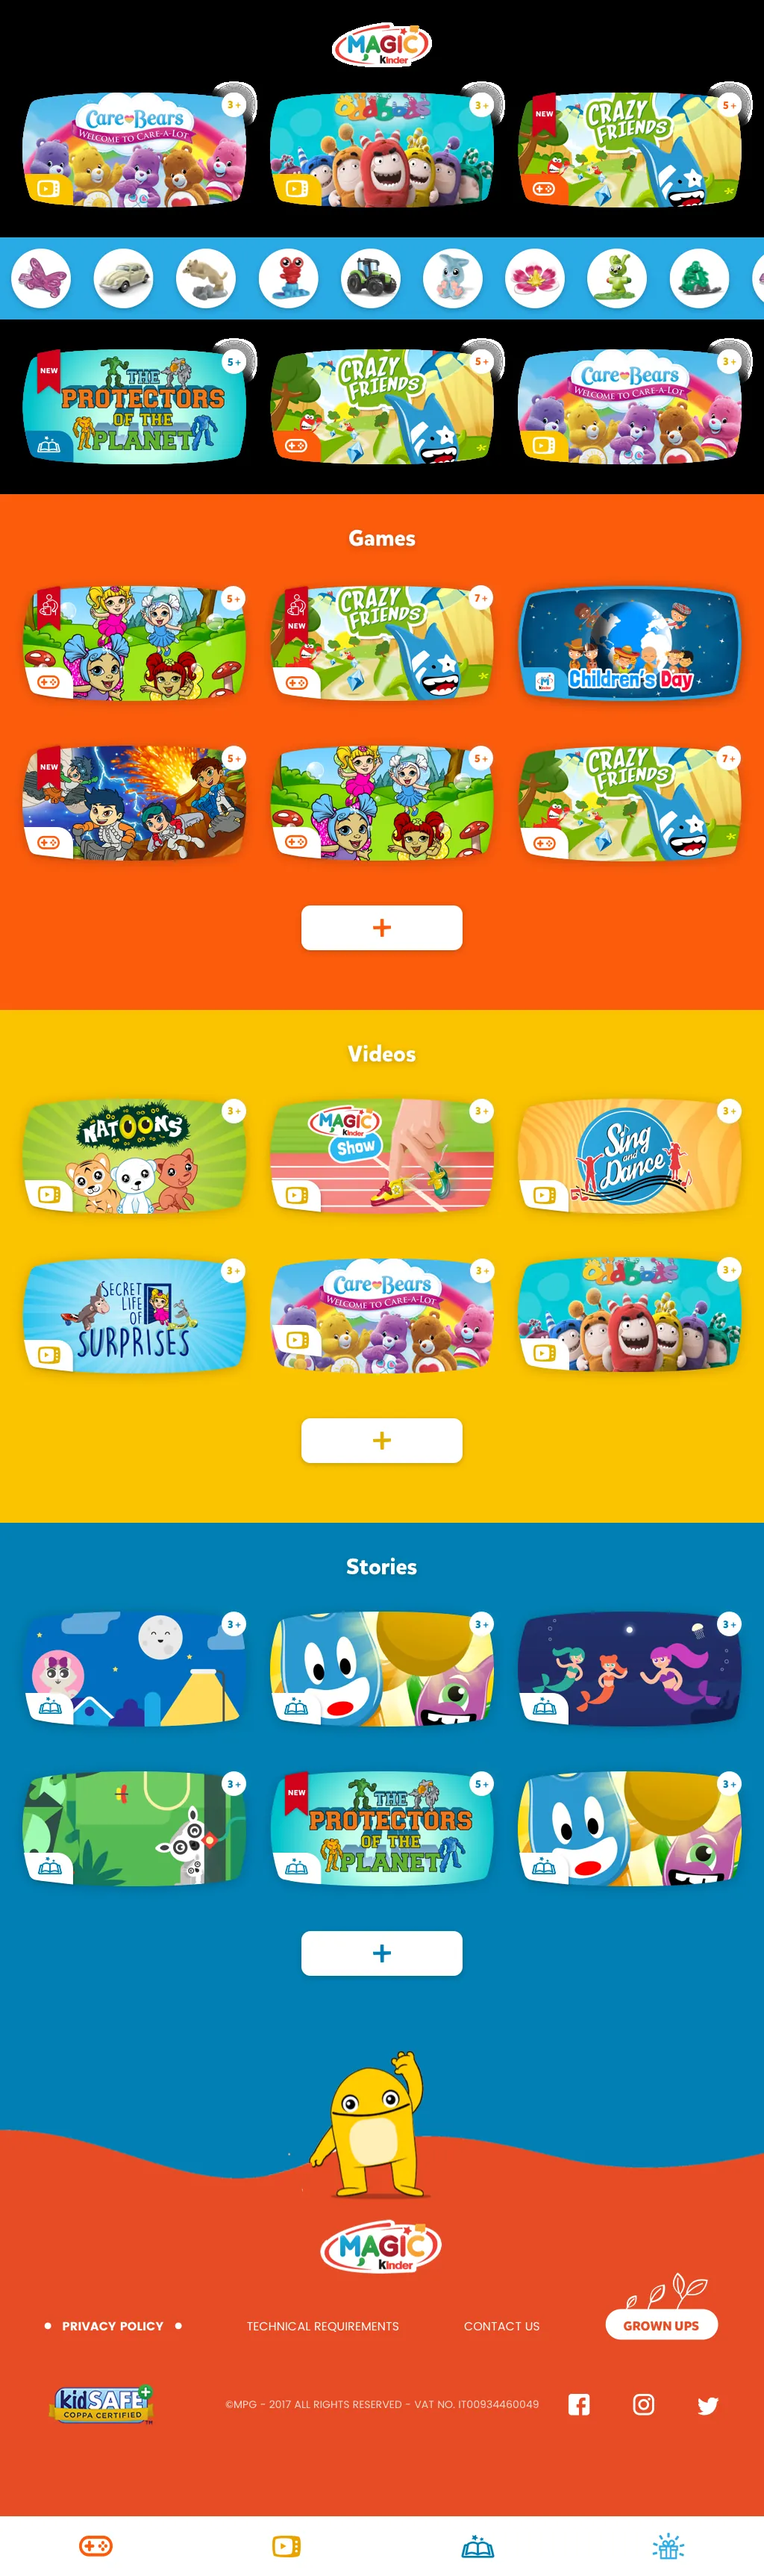
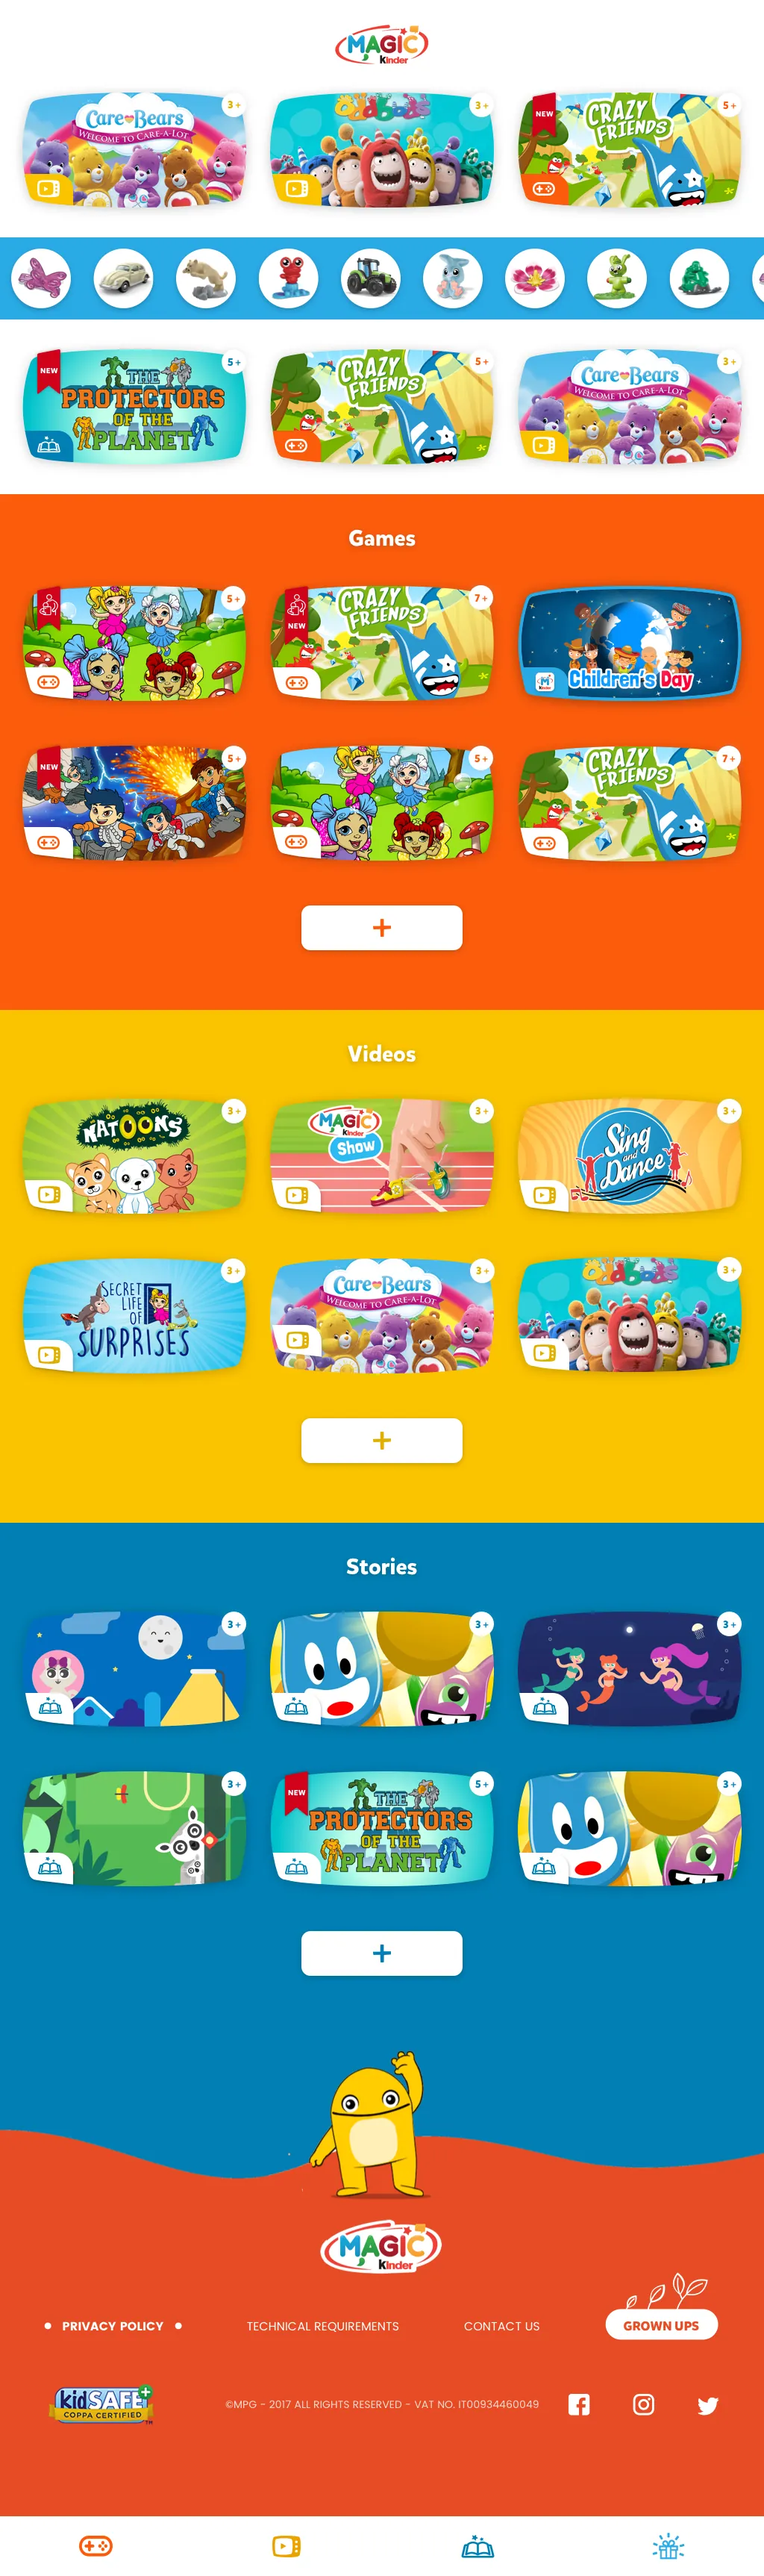
Ferrero case study: drop the concept-board module (weak framing, mostly white space); re-export every screen compositing PNG transparency over white, the m-site pages were rendering their transparent backgrounds as black instead of the design's white; aspect ratios verified rendered-vs-native on all

Changed region(s): [[0.0, 0.124, 1.0, 0.217], [0.0, 0.0, 1.0, 0.093]]

diff --git a/index.html b/index.html
@@ -2025,49 +2025,39 @@ body.on-case .readbar{opacity:1;}
   </section>
 
   <section class="sec">
-    <span class="ey">The concept</span>
-    <h2 class="st">One board set the direction.</h2>
-    <p style="font-size:14px;color:var(--slate);line-height:1.7;max-width:900px;margin-bottom:8px;">The re-design concept for the Hub app: a horizontal world of content islands floating over the Kinder horizon, with the child's avatar always present and the parent access always one tap away. Click to zoom.</p>
-    <figure class="hmshot new" style="max-width:1040px;margin-inline:auto;">
-      <div class="hmshot-bar"><span class="hmshot-t">Concept re-design, A3 board</span><span class="hmshot-pill">Ferrero Magic Kinder App</span></div>
-      <img src="assets/legacy/mk-concept.webp" width="1800" height="1273" alt="Magic Kinder App concept re-design board: two iPad frames showing the home carousel with licensed content, Watch Videos, Draw and Paint, Discover the Planet, Stories and Play and Learn islands, with parent access lock" loading="lazy" decoding="async" onclick="mkZoom(0)">
-    </figure>
-  </section>
-
-  <section class="sec alt">
     <span class="ey">The screens</span>
     <h2 class="st">Games, videos, stories, surprises.</h2>
     <p style="font-size:14px;color:var(--slate);line-height:1.7;max-width:900px;margin-bottom:8px;">The Hub app and the mobile site share one universe. Scroll the strip sideways, browse inside each mockup, click to zoom.</p>
     <div class="hmscreens-wrap">
       <div class="lg-arch hmscreens mkscreens" id="mkScreens" tabindex="0" role="region" aria-label="Magic Kinder screens, scroll horizontally to browse">
-        <figure class="hmshot new hmscreen"><div class="hmshot-bar"><span class="hmshot-t">Hub · Play &amp; Learn</span><span class="hmshot-pill">Games gallery, play together</span></div><div class="mock-scroll" data-lenis-prevent><img src="assets/legacy/mk-hub-play.webp" width="1600" height="1200" alt="Magic Kinder Hub Play and Learn section on tablet: games gallery with Magic Kinder Challenge, Bubble Rescue and Magic Brain" loading="lazy" decoding="async" onclick="mkZoom(1)"></div></figure>
-        <figure class="hmshot new hmscreen"><div class="hmshot-bar"><span class="hmshot-t">Mobile site · Home</span><span class="hmshot-pill">Games, videos and stories worlds</span></div><div class="mock-scroll" data-lenis-prevent><img src="assets/legacy/mk-ipad-home.webp" width="1024" height="3451" alt="Magic Kinder mobile site home on tablet: licensed content carousel, surprise toys strip, games, videos and stories sections, kidSAFE COPPA certified footer" loading="lazy" decoding="async" onclick="mkZoom(2)"></div></figure>
-        <figure class="hmshot new hmscreen"><div class="hmshot-bar"><span class="hmshot-t">Mobile site · Game detail</span><span class="hmshot-pill">Play, then discover more</span></div><div class="mock-scroll" data-lenis-prevent><img src="assets/legacy/mk-ipad-game.webp" width="1024" height="2664" alt="Magic Kinder game detail page with hero, description, app cross-promotion and other games" loading="lazy" decoding="async" onclick="mkZoom(3)"></div></figure>
-        <figure class="hmshot new hmscreen"><div class="hmshot-bar"><span class="hmshot-t">Il Sorpresario</span><span class="hmshot-pill">The surprise toys, digital</span></div><div class="mock-scroll" data-lenis-prevent><img src="assets/legacy/mk-ipad-sorpresario.webp" width="1024" height="1401" alt="Il Sorpresario: the digital catalogue of Kinder surprise toys by collection, Youmitik, Mixart and Natoons" loading="lazy" decoding="async" onclick="mkZoom(4)"></div></figure>
+        <figure class="hmshot new hmscreen"><div class="hmshot-bar"><span class="hmshot-t">Hub · Play &amp; Learn</span><span class="hmshot-pill">Games gallery, play together</span></div><div class="mock-scroll" data-lenis-prevent><img src="assets/legacy/mk-hub-play.webp" width="1600" height="1200" alt="Magic Kinder Hub Play and Learn section on tablet: games gallery with Magic Kinder Challenge, Bubble Rescue and Magic Brain" loading="lazy" decoding="async" onclick="mkZoom(0)"></div></figure>
+        <figure class="hmshot new hmscreen"><div class="hmshot-bar"><span class="hmshot-t">Mobile site · Home</span><span class="hmshot-pill">Games, videos and stories worlds</span></div><div class="mock-scroll" data-lenis-prevent><img src="assets/legacy/mk-ipad-home.webp" width="1024" height="3451" alt="Magic Kinder mobile site home on tablet: licensed content carousel, surprise toys strip, games, videos and stories sections, kidSAFE COPPA certified footer" loading="lazy" decoding="async" onclick="mkZoom(1)"></div></figure>
+        <figure class="hmshot new hmscreen"><div class="hmshot-bar"><span class="hmshot-t">Mobile site · Game detail</span><span class="hmshot-pill">Play, then discover more</span></div><div class="mock-scroll" data-lenis-prevent><img src="assets/legacy/mk-ipad-game.webp" width="1024" height="2664" alt="Magic Kinder game detail page with hero, description, app cross-promotion and other games" loading="lazy" decoding="async" onclick="mkZoom(2)"></div></figure>
+        <figure class="hmshot new hmscreen"><div class="hmshot-bar"><span class="hmshot-t">Il Sorpresario</span><span class="hmshot-pill">The surprise toys, digital</span></div><div class="mock-scroll" data-lenis-prevent><img src="assets/legacy/mk-ipad-sorpresario.webp" width="1024" height="1401" alt="Il Sorpresario: the digital catalogue of Kinder surprise toys by collection, Youmitik, Mixart and Natoons" loading="lazy" decoding="async" onclick="mkZoom(3)"></div></figure>
       </div>
       <div class="hmscreens-bar"><span class="hmscreens-hint">Scroll, drag or use the arrows to explore &rarr;</span><div class="hmscreens-nav"><button class="hmscreens-btn" type="button" aria-label="Previous screen" onclick="lgScroll(-1,'mkScreens')">&larr;</button><button class="hmscreens-btn" type="button" aria-label="Next screen" onclick="lgScroll(1,'mkScreens')">&rarr;</button></div></div>
       <p class="hm-disc" style="justify-content:center;"><svg width="13" height="13" viewBox="0 0 13 13" fill="none"><circle cx="6.5" cy="6.5" r="5.6" stroke="currentColor" stroke-width="1.1"/><path d="M6.5 5.6v3.2M6.5 4.1v.05" stroke="currentColor" stroke-width="1.3" stroke-linecap="round"/></svg><span><b>Attribution.</b> Work produced in my role at Reply for Ferrero. Screens show the interface design as delivered; licensed characters belong to their respective owners.</span></p>
     </div>
   </section>
 
-  <section class="sec">
+  <section class="sec alt">
     <span class="ey">Mobile</span>
     <h2 class="st">The same worlds, in a kid's pocket.</h2>
     <p style="font-size:14px;color:var(--slate);line-height:1.7;max-width:900px;margin-bottom:8px;">The mobile site brings the full universe to any phone: content worlds by colour, story and video detail pages, and the app always one tap away.</p>
     <div class="pp-phones">
-      <div class="pp-phonebox"><div class="pp-phone" onclick="mkZoom(5)"><div class="phone-scroll" data-lenis-prevent><img src="assets/legacy/mk-m-home.webp" alt="Magic Kinder mobile home: licensed carousel, games, videos and stories worlds" loading="lazy" decoding="async"></div></div><p class="pp-phone-cap">Mobile home</p></div>
-      <div class="pp-phonebox"><div class="pp-phone" onclick="mkZoom(6)"><div class="phone-scroll" data-lenis-prevent><img src="assets/legacy/mk-m-stories.webp" alt="Magic Kinder story detail: Infinimix Safari Story with description and other stories" loading="lazy" decoding="async"></div></div><p class="pp-phone-cap">Story detail</p></div>
-      <div class="pp-phonebox"><div class="pp-phone" onclick="mkZoom(7)"><div class="phone-scroll" data-lenis-prevent><img src="assets/legacy/mk-m-video.webp" alt="Magic Kinder video player page: Care Bears episode with player controls and other videos" loading="lazy" decoding="async"></div></div><p class="pp-phone-cap">Video player</p></div>
+      <div class="pp-phonebox"><div class="pp-phone" onclick="mkZoom(4)"><div class="phone-scroll" data-lenis-prevent><img src="assets/legacy/mk-m-home.webp" alt="Magic Kinder mobile home: licensed carousel, games, videos and stories worlds" loading="lazy" decoding="async"></div></div><p class="pp-phone-cap">Mobile home</p></div>
+      <div class="pp-phonebox"><div class="pp-phone" onclick="mkZoom(5)"><div class="phone-scroll" data-lenis-prevent><img src="assets/legacy/mk-m-stories.webp" alt="Magic Kinder story detail: Infinimix Safari Story with description and other stories" loading="lazy" decoding="async"></div></div><p class="pp-phone-cap">Story detail</p></div>
+      <div class="pp-phonebox"><div class="pp-phone" onclick="mkZoom(6)"><div class="phone-scroll" data-lenis-prevent><img src="assets/legacy/mk-m-video.webp" alt="Magic Kinder video player page: Care Bears episode with player controls and other videos" loading="lazy" decoding="async"></div></div><p class="pp-phone-cap">Video player</p></div>
     </div>
   </section>
 
-  <section class="sec alt">
+  <section class="sec">
     <span class="ey">From design to development</span>
     <h2 class="st">Specified to the pixel.</h2>
     <p class="hm-lead">Every screen shipped with an annotated board: measures, colours, typefaces and behaviours, <b>25 spec boards</b> that let developers build the app without guessing, plus store kits localised in 8 languages.</p>
     <div class="mkspecs">
-      <figure class="hmshot new"><div class="hmshot-bar"><span class="hmshot-t">Spec · Daily Surprise</span><span class="hmshot-pill">Measures, colours, typefaces</span></div><img src="assets/legacy/mk-spec-daily.webp" width="1600" height="1202" alt="Annotated specification board for the Daily Surprise screen with pixel measures, text colour and typeface callouts" loading="lazy" decoding="async" onclick="mkZoom(8)"></figure>
-      <figure class="hmshot new"><div class="hmshot-bar"><span class="hmshot-t">Spec · Parent area home</span><span class="hmshot-pill">The grown-up side, annotated</span></div><img src="assets/legacy/mk-spec-parent.webp" width="1600" height="1200" alt="Annotated specification board for the parent area home with profile, parental lock, tips for parents and expert opinion modules" loading="lazy" decoding="async" onclick="mkZoom(9)"></figure>
+      <figure class="hmshot new"><div class="hmshot-bar"><span class="hmshot-t">Spec · Daily Surprise</span><span class="hmshot-pill">Measures, colours, typefaces</span></div><img src="assets/legacy/mk-spec-daily.webp" width="1600" height="1202" alt="Annotated specification board for the Daily Surprise screen with pixel measures, text colour and typeface callouts" loading="lazy" decoding="async" onclick="mkZoom(7)"></figure>
+      <figure class="hmshot new"><div class="hmshot-bar"><span class="hmshot-t">Spec · Parent area home</span><span class="hmshot-pill">The grown-up side, annotated</span></div><img src="assets/legacy/mk-spec-parent.webp" width="1600" height="1200" alt="Annotated specification board for the parent area home with profile, parental lock, tips for parents and expert opinion modules" loading="lazy" decoding="async" onclick="mkZoom(8)"></figure>
     </div>
     <p class="hm-disc"><svg width="13" height="13" viewBox="0 0 13 13" fill="none"><circle cx="6.5" cy="6.5" r="5.6" stroke="currentColor" stroke-width="1.1"/><path d="M6.5 5.6v3.2M6.5 4.1v.05" stroke="currentColor" stroke-width="1.3" stroke-linecap="round"/></svg><span><b>Note.</b> Photography inside the spec boards is placeholder imagery from the original design files.</span></p>
   </section>
@@ -2288,7 +2278,6 @@ var PR_SHOTS=[
 function prZoom(i){jvGallery(PR_SHOTS.map(function(s){return{src:s.src,label:s.label,alt:s.label};}),i);}
 /* Ferrero Magic Kinder gallery */
 var MK_SHOTS=[
-  {src:'assets/legacy/mk-concept.webp',label:'Magic Kinder App, concept re-design board'},
   {src:'assets/legacy/mk-hub-play.webp',label:'Hub app, Play and Learn'},
   {src:'assets/legacy/mk-ipad-home.webp',label:'Mobile site, home'},
   {src:'assets/legacy/mk-ipad-game.webp',label:'Mobile site, game detail'},
